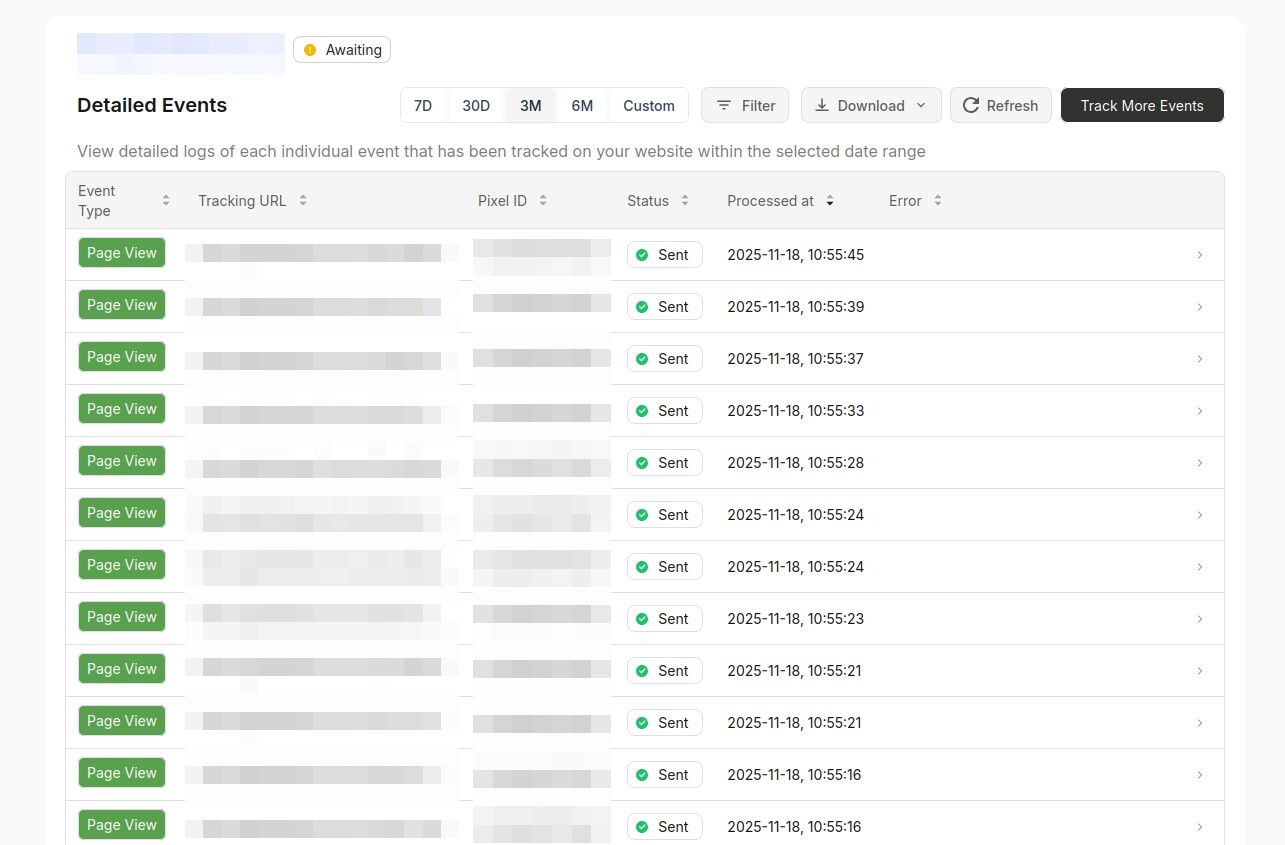
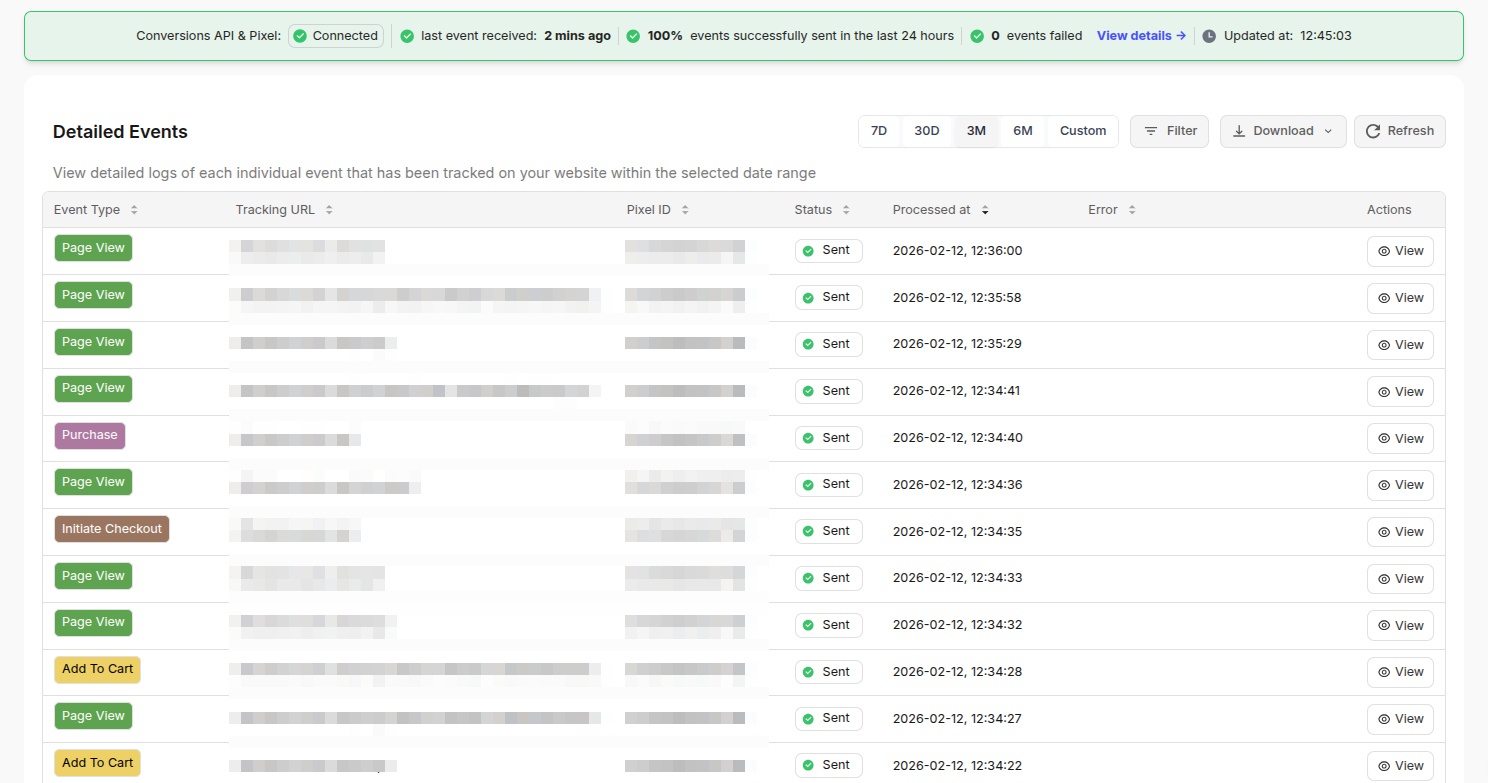
updated readme and screenshots for the latest version

diff --git a/README.md b/README.md
@@ -1,23 +1,55 @@
 # PixelFlow WordPress Plugin
 
-PixelFlow official WordPress plugin. Easily install Meta's Conversions API on your website with WooCommerce integration and event tracking.
+Facebook Conversions API for WooCommerce. One-click setup. Auto track WooCommerce events to Meta with 100% accuracy. Bypass iOS restrictions & ad blockers.
 
-PixelFlow is the official WordPress plugin for [PixelFlow](https://pixelflow.so) - a powerful solution for implementing Meta's Conversions API on your website.
+Stop losing 30-50% of your WooCommerce conversions to iOS restrictions and ad blockers. [PixelFlow](https://pixelflow.so) is the no-code solution for implementing Meta's Conversions API on WooCommerce - so your ads finally get the data they need to optimize.
+
+- No more missing sales or conversions in Facebook ads manager
+- See every single event and where it came from down to the campaign, adset and ad
+- No for developers, Google Tags Manager or expensive solution
 
 ## Why PixelFlow?
 
-Meta's Conversions API helps you track customer actions beyond the limitations of browser-based tracking, ensuring accurate data collection for your advertising campaigns. PixelFlow makes it simple to set up and manage without technical expertise.
+Most server-side tracking solutions are built for developers or enterprise teams. They require complex setups, expensive consultants, or per-event pricing that spirals out of control.
 
-## Features
+## PixelFlow is different:
 
-- 🚀 **Easy Installation** - Add your PixelFlow tracking code with just a few clicks
-- 🛒 **WooCommerce Integration** - Automatic event tracking for your online store
-- 📊 **Complete Event Tracking** - Track purchases, add to cart, checkout, and more
-- ⚙ **Flexible Configuration** - Control which events and elements to track
-- 🎨 **Theme Compatible** - Works with most of WordPress themes
-- 🔒 **User Role Exclusion** - Exclude admins or specific user roles from tracking
-- 🐛 **Debug Mode** - Visual debugging tools for testing and validation
-- 🎯 **Custom Class Assignment** - Automatically adds tracking classes to WooCommerce elements
+- **No developer needed** — install plugin, click enable and you're DONE.
+- **Unlimited event tracking** — flat monthly pricing, no per-event fees or surprise charges
+- **Set up in minutes** — not days or weeks
+
+## What You Get
+
+- **Recover lost conversions** that browser-based tracking misses
+- **Improve Event Match Quality scores** for better ad targeting and lower CPAs
+- **Track WooCommerce events automatically** — Add to Cart, Checkout, Purchase
+- **Real-time event monitoring** — see exactly what's being sent to Meta
+- **Works alongside your existing Pixel** — CAPI supplements browser tracking, it doesn't replace it. PixelFlow automatically loads both your pixel & CAPI for you for perfect event. deduplication and more coverage.
+
+## Why Server-Side Tracking Matters
+
+Since iOS 14, Meta's browser-based Pixel misses up to half your conversions. Ad blockers make it worse. When Meta doesn't receive your conversion data, it can't optimize your campaigns — so you pay more for worse results.
+PixelFlow sends events directly from your server to Meta, bypassing ad blockers and privacy restrictions entirely. Your ads get complete data. Your ROAS improves.
+
+## Built for WooCommerce
+
+When WooCommerce is active, PixelFlow automatically tracks:
+
+- **Add to Cart** — with product name, price, and quantity
+- **Initiate Checkout** — captures cart totals
+- **Purchase** — full order data including revenue
+
+No manual setup. No custom code. Works instantly.
+
+## Additional options:
+
+- Exclude free products from tracking
+- Exclude admins and specific user roles
+- Control which events fire and when
+
+**Not Using WooCommerce? We've Got You Covered.**
+
+Running a WordPress site without an online store? PixelFlow works for you too without the need for a plugin. Learn more at [PixelFlow](https://pixelflow.so) .
 
 ## Installation
 
@@ -45,10 +77,10 @@ Please follow this guide to set up your PixelFlow tracking code: [PixelFlow Setu
 
 When WooCommerce integration is active, PixelFlow automatically:
 
-* Tracks purchase events with complete order details
-* Adds event tracking classes to product, cart, and checkout pages
-* Captures product names, prices, quantities, and totals
-* Works with most WooCommerce themes out of the box
+* Tracks Add To Cart, Initiate Checkout, Purchase events
+* Captures product names, prices, quantities, totals and the other required information
+* Works with almost any WooCommerce theme out of the box
+* Free products could be optionally excluded from tracking
 
 **Tracked Events Include:**
 
@@ -200,66 +232,47 @@ For form tracking (Lead, Subscribe, Contact events), class names should be added
 
 ### What is PixelFlow?
 
-PixelFlow is a service that helps you implement Meta's Conversions API on your website, providing accurate tracking of customer actions for your Facebook/Meta and Instagram advertising campaigns.
+PixelFlow is a WooCommerce plugin that implements Meta's Conversions API (CAPI) on your store without any coding. It sends your conversion data directly from your server to Meta, bypassing the iOS restrictions and ad blockers that cause the standard Meta Pixel to miss 30-50% of your sales.
 
-### How is this different to just using the Meta Pixel on my website?
+### How is PixelFlow different from the standard Meta Pixel?
 
-Server-side tracking (also called the Conversion API) is better than using the standard "Facebook/Meta Pixel" implementation because it works even if visitors have ad blockers, tracking prevention, or cookie restrictions enabled meaning you get more complete, accurate data to measure results and improve your ads. It tracks events on your website before they can be blocked by a user's browser meaning you can get more data sent to Meta events manager and in turn reduce your costs because your data is better and more accurate.
+The Meta Pixel runs in your visitor's browser, which means it gets blocked by iOS privacy settings, ad blockers, and cookie restrictions. PixelFlow sends data server-to-server, so Meta receives your conversion data regardless of what's happening in the browser. You get more accurate tracking and better ad performance.
 
-### What are the benefits of PixelFlow?
+### How is PixelFlow different from competitors?
 
-PixelFlow tracks all events that users take on your website and send those events to Meta before the tracking can be blocked by the browser, adblocker, iPhone etc. This means you get far more accurate reporting data in your Meta events manager leading to reduced costs and increased conversions. Essentially you'll spend less on Meta ads and get a better return as you'll have more accurate data.
+Other implementations are either too complex or have "proprietary" systems to make up for their higher pricing. PixelFlow just simplifies all of this - we offer perfect server side tracking for WooCommerce at an affordable price for our users. We're a small team and always available for support and video calls!
 
-### How much more accurate is PixelFlow vs just the Meta pixel on my website?
+### How long does setup take?
 
-PixelFlow picks up 30–40% more conversions that Meta Pixel misses - especially on iOS, Safari, or when ad blockers are active. While Meta relies on browser-side data (which gets blocked), PixelFlow uses server-side tracking to ensure you see the full picture - every click, sale, and signup, even the hidden ones.
+About 2 minutes. Install the plugin, connect your Meta account, and click enable. PixelFlow handles everything else automatically.
 
-### I'm not technical, can you just set it up for me?
+### Will PixelFlow slow down my website?
 
-We've actually designed PixelFlow as an alternative to the more complex platforms because we totally understand these things can seem complicated. With this in mind, the setup is super simple - you just follow the video and steps and you're all done. However, if you need any help we're happy to jump on a video call with you and get it all setup!
+No. PixelFlow sends data from your server after the page has loaded, so it has zero impact on your storefront speed or customer experience.
 
-### How is GDPR handled?
+### Do I need to remove my existing Meta Pixel?
 
-For EU customers, you can ensure the PixelFlow script only loads after they have accepted whatever consent banner you choose to implement.
+No. PixelFlow works alongside your existing Pixel and automatically handles deduplication so Meta doesn't count events twice. Running both gives you maximum coverage.
 
-### Do I need a PixelFlow account?
+### Can I try PixelFlow for free?
 
-Yes, you need to sign up for a PixelFlow account at [pixelflow.so](https://pixelflow.so) to get your tracking code. We offer a free trial to get started.
+Yes. PixelFlow offers a 7-day free trial with no credit card required. You can test everything and see events flowing before you commit.
 
-### Does this work without WooCommerce?
+### How do I know if events are tracking correctly?
 
-Yes! The plugin works on any WordPress site. WooCommerce integration is an optional feature that provides automatic e-commerce event tracking.
+PixelFlow includes a real-time event log in your dashboard. You can see every event sent to Meta, including the data payload, delivery status, and any errors. You can also verify in Meta Events Manager.
 
-### Will this slow down my website?
+### What if I'm not using WooCommerce?
 
-No. The PixelFlow tracking code is lightweight and loads asynchronously, so it won't affect your website's performance.
+PixelFlow also works on regular WordPress sites and other platforms like Webflow, Framer, and Squarespace using a simple tracking script. Visit [pixelflow.so](https://pixelflow.so) to learn more.
 
-### Can I exclude certain users from tracking?
+### Is PixelFlow GDPR compliant?
 
-Yes. You can exclude specific user roles (like administrators) from being tracked in the plugin settings.
+PixelFlow is a data processor that sends conversion data to Meta on your behalf. You are responsible for obtaining appropriate user consent where required by law (GDPR, CCPA, etc.). PixelFlow works with popular consent plugins and can be configured to only fire events after consent is given.
 
-### Is this compatible with my theme?
+### What support is available if I need help?
 
-The plugin works with any WordPress themes. The WooCommerce integration works with most themes, but you can manually adjust class assignments if needed.
-
-### How do I test if events are tracking correctly?
-
-1. Enable Debug Mode in the plugin settings
-2. Visit your site while logged in
-3. You'll see visual indicators on tracked elements
-4. Check Meta Events Manager for event data
-
-### Can I track custom events?
-
-Yes! You can manually add PixelFlow class names to any element on your site to track custom events. See the [PixelFlow documentation](https://docs.pixelflow.so) for details.
-
-### Is my data secure?
-
-Yes. PixelFlow follows industry best practices for data security and privacy. Your tracking data is sent directly to Meta's servers.
-
-### What if I need help?
-
-Visit [PixelFlow documentation](https://docs.pixelflow.so) or [Contact Support](https://pixelflow.so/contact).
+We offer documentation, video tutorials, and email support on all plans. Most users complete setup without any assistance, but we're here if you get stuck. You can [ask your questions right here](https://wordpress.org/support/plugin/pixelflow/) or visit [PixelFlow documentation](https://docs.pixelflow.so) or [Contact Support](https://pixelflow.so/contact).
 
 ## Troubleshooting
 
